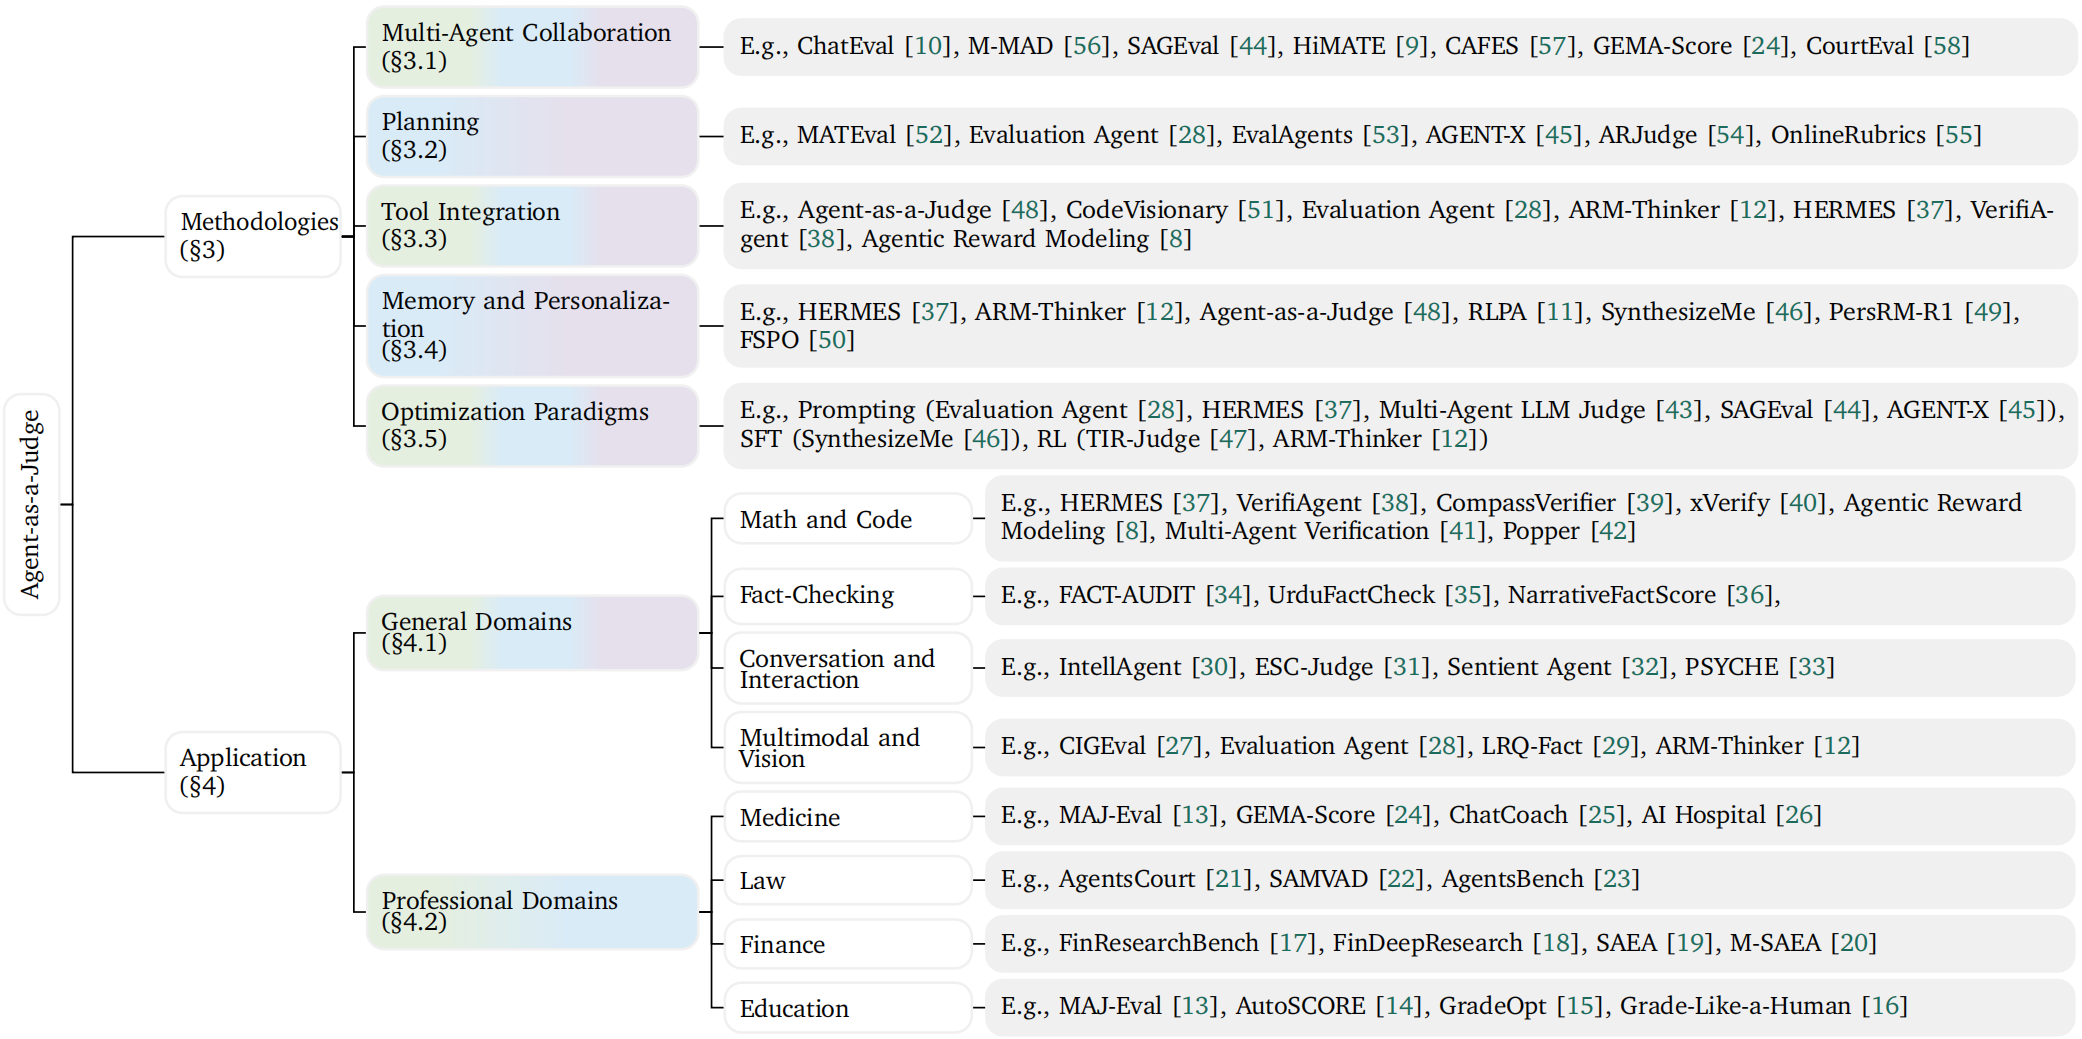
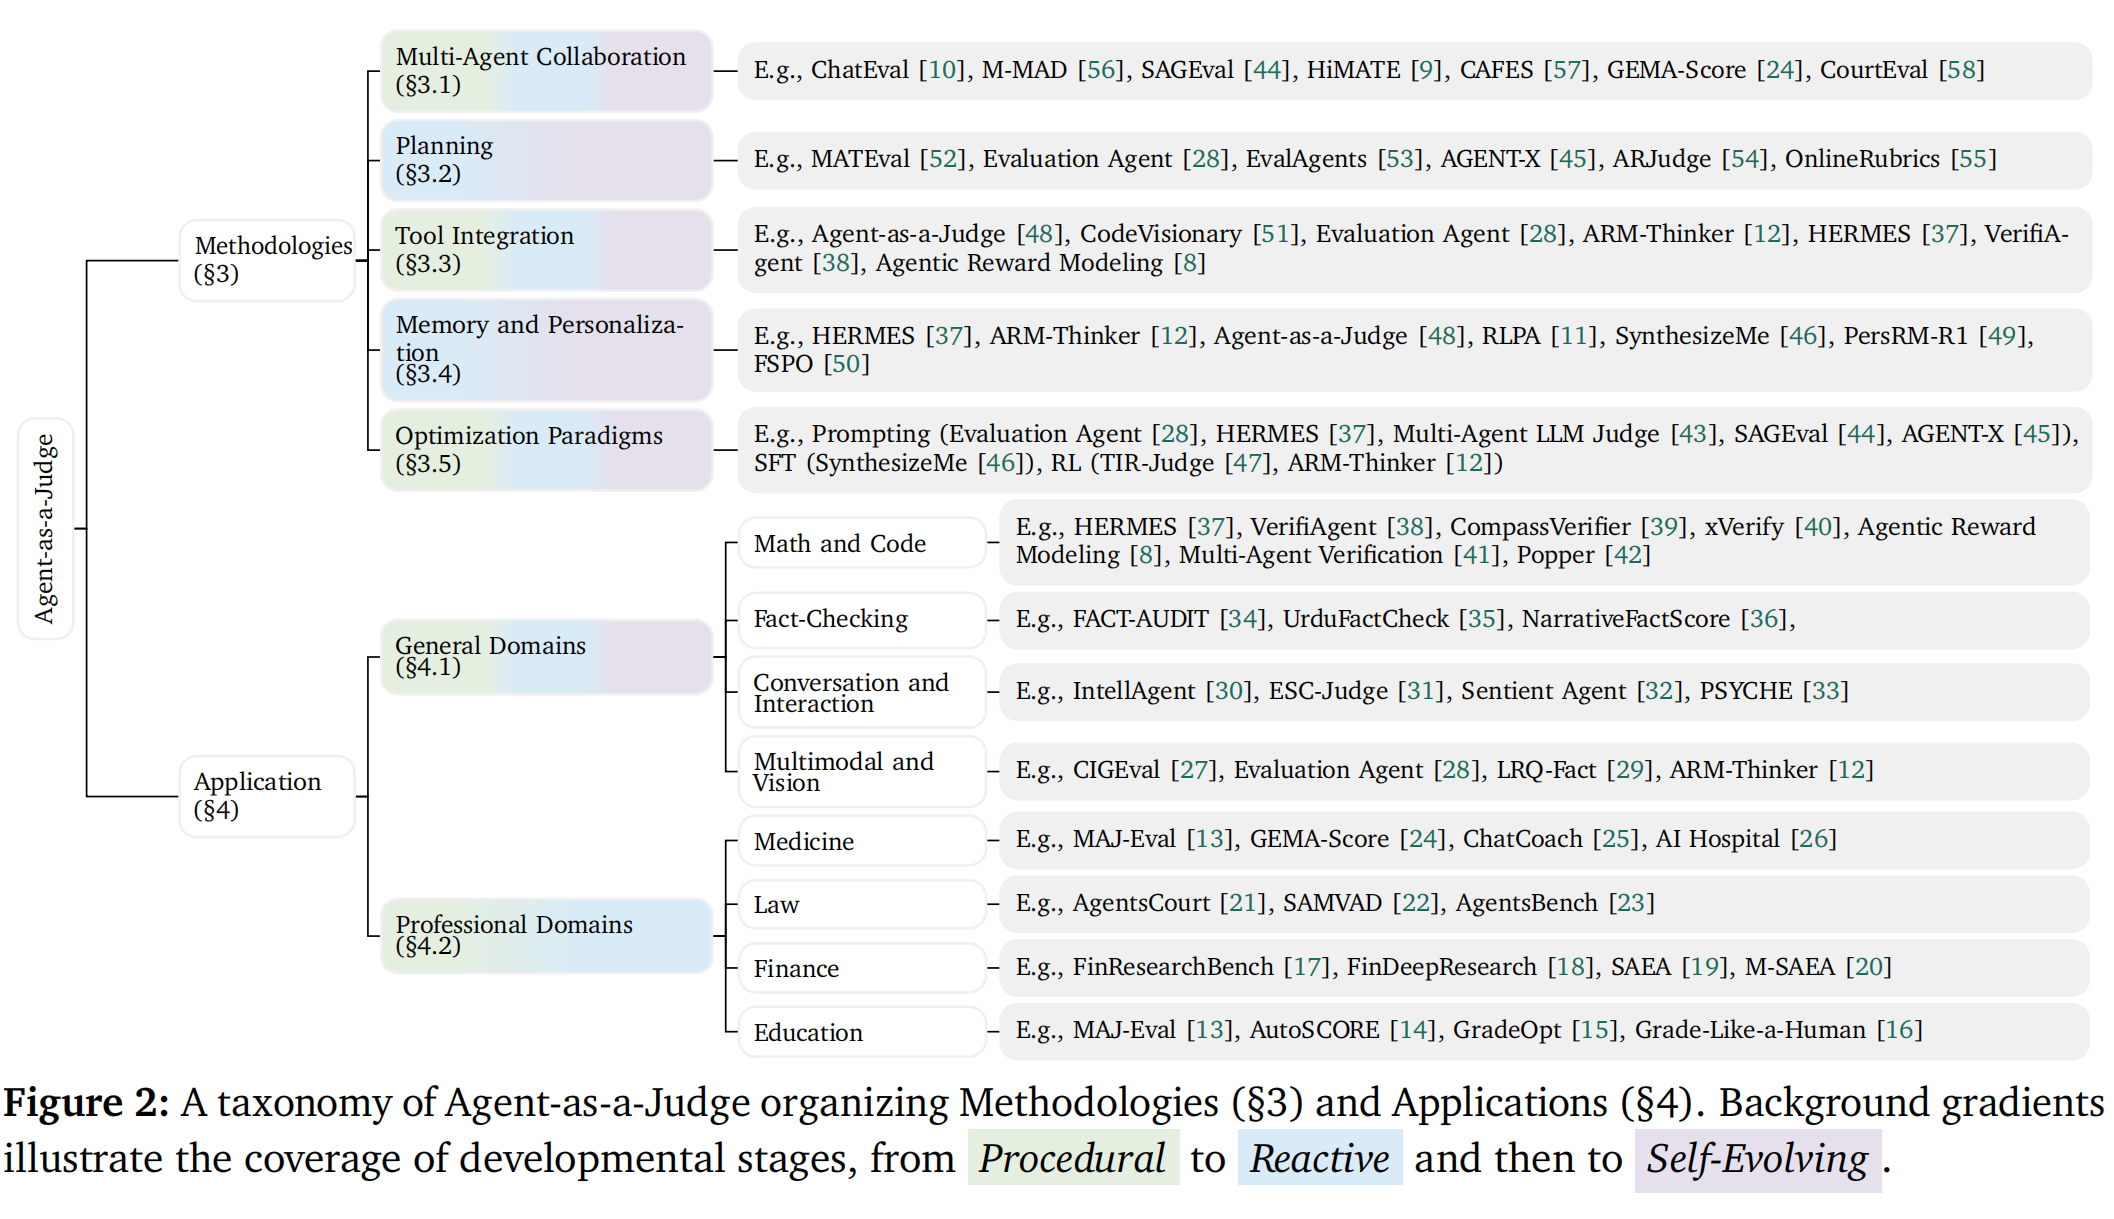
Update README.md: Correct title in introduction, add caption for taxonomy figure, re-origanize papers

diff --git a/README.md b/README.md
@@ -18,7 +18,7 @@
 
 
 
-Welcome to **Awesome Agent-as-a-Judge**! 👋 This repository provides a collection of papers for **AA Survey on Agent-as-a-Judge**, where LLM-based agents are used as judges to evaluate different types of outputs, including natural language generation, code generation, mathematical reasoning, and more.
+Welcome to **Awesome Agent-as-a-Judge**! 👋 This repository provides a collection of papers for **A Survey on Agent-as-a-Judge**, where LLM-based agents are used as judges to evaluate different types of outputs, including natural language generation, code generation, mathematical reasoning, and more.
 
 
 
@@ -29,6 +29,61 @@ Welcome to **Awesome Agent-as-a-Judge**! 👋 This repository provides a collect
 * <a href='#citation'> 📖 Citation </a>
 
 ## 📚 Papers <span id="papers">
+
+
+### Methodologies
+
+
+#### Multi-Agent Collaboration
+- [2024/01] ChatEval: Towards Better LLM-based Evaluators through Multi-Agent Debate | [paper](https://arxiv.org/abs/2308.07201) | Venue: ICLR 2024
+- [2024/12] M-MAD: Multidimensional Multi-Agent Debate for Advanced Machine Translation Evaluation | [paper](https://arxiv.org/abs/2412.20127) | Venue: ACL 2025
+- [2024/11] SAGEval: The frontiers of Satisfactory Agent based NLG Evaluation | [paper](https://arxiv.org/abs/2411.16077)
+- [2025/11] HiMATE: A Hierarchical Multi-Agent Framework for Machine Translation Evaluation | [paper](https://arxiv.org/abs/2505.16281) | Venue: EMNLP 2025
+- [2025/05] CAFES: A Collaborative Multi-Agent Framework for Multi-Granular Multimodal Essay Scoring | [paper](https://arxiv.org/abs/2505.13965)
+- [2025/03] GEMA-Score: Granular Explainable Multi-Agent Score for Radiology Report Evaluation | [paper](https://arxiv.org/abs/2503.05347)
+- [2025/07] CourtEval: A courtroom-based multi-agent evaluation framework. | [paper](https://aclanthology.org/2025.findings-acl.1327) | Venue: ACL 2025
+- [2025/02] Faithful, Unfaithful or Ambiguous? Multi-Agent Debate with Initial Stance for Summary Evaluation | [paper](https://arxiv.org/abs/2502.08514) | Venue: NAACL 2025
+- [2023/03] Large language models are diverse role-players for summarization evaluation | [paper](https://arxiv.org/abs/2303.15078) | Venue: NLPCC 2023
+
+#### Planning
+- [2024/05] MATEval: A Multi-Agent Discussion Framework for Advancing Open-Ended Text Evaluation | [paper](https://arxiv.org/abs/2403.19305) | Venue: DASFAA 2024
+- [2024/12] Evaluation Agent: Efficient and Promptable Evaluation Framework for Visual Generative Models | [paper](https://arxiv.org/abs/2412.09645) | Venue: ACL 2025
+- [2025/04] EvalAgent: Discovering Implicit Evaluation Criteria from the Web | [paper](https://arxiv.org/abs/2504.15219) | Venue: COLM 2025
+- [2025/05] AGENT-X: Adaptive Guideline-based Expert Network for Threshold-free AI-generated teXt detection | [paper](https://arxiv.org/abs/2505.15261)
+- [2025/11] Large Language Models as User-Agents for Evaluating Task-Oriented-Dialogue Systems . | [paper](https://arxiv.org/abs/2411.09972)
+- [2025/10] Online Rubrics Elicitation from Pairwise Comparisons | [paper](https://arxiv.org/abs/2510.07284)
+
+
+#### Tool Integration
+- [2024/10] Agent-as-a-Judge: Evaluate Agents with Agent | [paper](https://arxiv.org/abs/2410.10934) | Venue: ICML 2025
+- [2025/04] CodeVisionary: An Agent-based Framework for Evaluating Large Language Models in Code Generation | [paper](https://arxiv.org/abs/2504.13472) | Venue: ASE 2025
+- [2024/12] Evaluation Agent: Efficient and Promptable Evaluation Framework for Visual Generative Models | [paper](https://arxiv.org/abs/2412.09645) | Venue: ACL 2025
+- [2025/12] ARM-Thinker: Reinforcing Multimodal Generative Reward Models with Agentic Tool Use and Visual Reasoning | [paper](https://arxiv.org/abs/2512.05111)
+- [2025/11] HERMES: Towards Efficient and Verifiable Mathematical Reasoning in LLMs. | [paper](https://arxiv.org/abs/2511.1876)
+- [2025/04] VerifiAgent: a Unified Verification Agent in Language Model Reasoning | [paper](https://arxiv.org/abs/2504.00406) | Venue: EMNLP 2025
+- [2025/02] Agentic Reward Modeling: Integrating Human Preferences with Verifiable Correctness Signals. | [paper](https://arxiv.org/abs/2502.19328) | Venue: ACL 2025
+
+
+
+#### Memory and Personalization
+- [2025/11] HERMES: Towards Efficient and Verifiable Mathematical Reasoning in LLMs. | [paper](https://arxiv.org/abs/2511.1876)
+- [2025/12] ARM-Thinker: Reinforcing Multimodal Generative Reward Models with Agentic Tool Use and Visual Reasoning | [paper](https://arxiv.org/abs/2512.05111)
+- [2024/10] Agent-as-a-Judge: Evaluate Agents with Agent | [paper](https://arxiv.org/abs/2410.10934) | Venue: ICML 2025
+- [2025/05] Teaching Language Models to Evolve with Users: Dynamic Profile Modeling for Personalized Alignment | [paper](https://arxiv.org/abs/2505.15456) | Venue: NeurIPS 2025
+- [2025/06] SynthesizeMe! Inducing Persona-Guided Prompts for Personalized Reward Models in LLMs | [paper](https://arxiv.org/abs/2506.05598) | Venue: ACL 2025
+- [2025/08] PersRM-R1: Enhance Personalized Reward Modeling with Reinforcement Learning | [paper](https://arxiv.org/abs/2508.14076)
+- [2025/02] FSPO: Few-Shot Preference Optimization of Synthetic Preference Data in LLMs Elicits Effective Personalization to Real Users | [paper](https://arxiv.org/abs/2502.19312)
+
+
+#### Optimization Paradigms
+- [2024/12] Evaluation Agent: Efficient and Promptable Evaluation Framework for Visual Generative Models | [paper](https://arxiv.org/abs/2412.09645) | Venue: ACL 2025
+- [2025/11] HERMES: Towards Efficient and Verifiable Mathematical Reasoning in LLMs. | [paper](https://arxiv.org/abs/2511.1876)
+- [2025/04] Multi-Agent LLM Judge: automatic personalized LLM judge design for evaluating natural language generation applications | [paper](https://arxiv.org/abs/2504.02867)
+- [2024/11] SAGEval: The frontiers of Satisfactory Agent based NLG Evaluation | [paper](https://arxiv.org/abs/2411.16077)
+- [2025/05] AGENT-X: Adaptive Guideline-based Expert Network for Threshold-free AI-generated teXt detection | [paper](https://arxiv.org/abs/2505.15261)
+- [2025/06] SynthesizeMe! Inducing Persona-Guided Prompts for Personalized Reward Models in LLMs | [paper](https://arxiv.org/abs/2506.05598) | Venue: ACL 2025
+- [2025/10] Incentivizing Agentic Reasoning in LLM Judges via Tool-Integrated Reinforcement Learning | [paper](https://arxiv.org/abs/2510.23038)
+- [2025/12] ARM-Thinker: Reinforcing Multimodal Generative Reward Models with Agentic Tool Use and Visual Reasoning | [paper](https://arxiv.org/abs/2512.05111)
 
 
 ### Applications
@@ -88,72 +143,18 @@ Welcome to **Awesome Agent-as-a-Judge**! 👋 This repository provides a collect
 - [2025/02] Popper: Automated Hypothesis Validation with Agentic Sequential Falsifications | [paper](https://arxiv.org/abs/2502.09858) | Venue: ICML 2025
 - [2025/04] CodeVisionary: An Agent-based Framework for Evaluating Large Language Models in Code Generation | [paper](https://arxiv.org/abs/2504.13472) | Venue: ASE 2025
 
-### Methodologies
-
-#### Optimization Paradigms
-- [2024/12] Evaluation Agent: Efficient and Promptable Evaluation Framework for Visual Generative Models | [paper](https://arxiv.org/abs/2412.09645) | Venue: ACL 2025
-- [2025/11] HERMES: Towards Efficient and Verifiable Mathematical Reasoning in LLMs. | [paper](https://arxiv.org/abs/2511.1876)
-- [2025/04] Multi-Agent LLM Judge: automatic personalized LLM judge design for evaluating natural language generation applications | [paper](https://arxiv.org/abs/2504.02867)
-- [2024/11] SAGEval: The frontiers of Satisfactory Agent based NLG Evaluation | [paper](https://arxiv.org/abs/2411.16077)
-- [2025/05] AGENT-X: Adaptive Guideline-based Expert Network for Threshold-free AI-generated teXt detection | [paper](https://arxiv.org/abs/2505.15261)
-- [2025/06] SynthesizeMe! Inducing Persona-Guided Prompts for Personalized Reward Models in LLMs | [paper](https://arxiv.org/abs/2506.05598) | Venue: ACL 2025
-- [2025/10] Incentivizing Agentic Reasoning in LLM Judges via Tool-Integrated Reinforcement Learning | [paper](https://arxiv.org/abs/2510.23038)
-- [2025/12] ARM-Thinker: Reinforcing Multimodal Generative Reward Models with Agentic Tool Use and Visual Reasoning | [paper](https://arxiv.org/abs/2512.05111)
-
-#### Memory and Personalization
-- [2025/11] HERMES: Towards Efficient and Verifiable Mathematical Reasoning in LLMs. | [paper](https://arxiv.org/abs/2511.1876)
-- [2025/12] ARM-Thinker: Reinforcing Multimodal Generative Reward Models with Agentic Tool Use and Visual Reasoning | [paper](https://arxiv.org/abs/2512.05111)
-- [2024/10] Agent-as-a-Judge: Evaluate Agents with Agent | [paper](https://arxiv.org/abs/2410.10934) | Venue: ICML 2025
-- [2025/05] Teaching Language Models to Evolve with Users: Dynamic Profile Modeling for Personalized Alignment | [paper](https://arxiv.org/abs/2505.15456) | Venue: NeurIPS 2025
-- [2025/06] SynthesizeMe! Inducing Persona-Guided Prompts for Personalized Reward Models in LLMs | [paper](https://arxiv.org/abs/2506.05598) | Venue: ACL 2025
-- [2025/08] PersRM-R1: Enhance Personalized Reward Modeling with Reinforcement Learning | [paper](https://arxiv.org/abs/2508.14076)
-- [2025/02] FSPO: Few-Shot Preference Optimization of Synthetic Preference Data in LLMs Elicits Effective Personalization to Real Users | [paper](https://arxiv.org/abs/2502.19312)
-
-#### Tool Integration
-- [2024/10] Agent-as-a-Judge: Evaluate Agents with Agent | [paper](https://arxiv.org/abs/2410.10934) | Venue: ICML 2025
-- [2025/04] CodeVisionary: An Agent-based Framework for Evaluating Large Language Models in Code Generation | [paper](https://arxiv.org/abs/2504.13472) | Venue: ASE 2025
-- [2024/12] Evaluation Agent: Efficient and Promptable Evaluation Framework for Visual Generative Models | [paper](https://arxiv.org/abs/2412.09645) | Venue: ACL 2025
-- [2025/12] ARM-Thinker: Reinforcing Multimodal Generative Reward Models with Agentic Tool Use and Visual Reasoning | [paper](https://arxiv.org/abs/2512.05111)
-- [2025/11] HERMES: Towards Efficient and Verifiable Mathematical Reasoning in LLMs. | [paper](https://arxiv.org/abs/2511.1876)
-- [2025/04] VerifiAgent: a Unified Verification Agent in Language Model Reasoning | [paper](https://arxiv.org/abs/2504.00406) | Venue: EMNLP 2025
-- [2025/02] Agentic Reward Modeling: Integrating Human Preferences with Verifiable Correctness Signals. | [paper](https://arxiv.org/abs/2502.19328) | Venue: ACL 2025
-
-#### Planning
-- [2024/05] MATEval: A Multi-Agent Discussion Framework for Advancing Open-Ended Text Evaluation | [paper](https://arxiv.org/abs/2403.19305) | Venue: DASFAA 2024
-- [2024/12] Evaluation Agent: Efficient and Promptable Evaluation Framework for Visual Generative Models | [paper](https://arxiv.org/abs/2412.09645) | Venue: ACL 2025
-- [2025/04] EvalAgent: Discovering Implicit Evaluation Criteria from the Web | [paper](https://arxiv.org/abs/2504.15219) | Venue: COLM 2025
-- [2025/05] AGENT-X: Adaptive Guideline-based Expert Network for Threshold-free AI-generated teXt detection | [paper](https://arxiv.org/abs/2505.15261)
-- [2025/11] Large Language Models as User-Agents for Evaluating Task-Oriented-Dialogue Systems . | [paper](https://arxiv.org/abs/2411.09972)
-- [2025/10] Online Rubrics Elicitation from Pairwise Comparisons | [paper](https://arxiv.org/abs/2510.07284)
-
-#### Multi-Agent Collaboration
-- [2024/01] ChatEval: Towards Better LLM-based Evaluators through Multi-Agent Debate | [paper](https://arxiv.org/abs/2308.07201) | Venue: ICLR 2024
-- [2024/12] M-MAD: Multidimensional Multi-Agent Debate for Advanced Machine Translation Evaluation | [paper](https://arxiv.org/abs/2412.20127) | Venue: ACL 2025
-- [2024/11] SAGEval: The frontiers of Satisfactory Agent based NLG Evaluation | [paper](https://arxiv.org/abs/2411.16077)
-- [2025/11] HiMATE: A Hierarchical Multi-Agent Framework for Machine Translation Evaluation | [paper](https://arxiv.org/abs/2505.16281) | Venue: EMNLP 2025
-- [2025/05] CAFES: A Collaborative Multi-Agent Framework for Multi-Granular Multimodal Essay Scoring | [paper](https://arxiv.org/abs/2505.13965)
-- [2025/03] GEMA-Score: Granular Explainable Multi-Agent Score for Radiology Report Evaluation | [paper](https://arxiv.org/abs/2503.05347)
-- [2025/07] CourtEval: A courtroom-based multi-agent evaluation framework. | [paper](https://aclanthology.org/2025.findings-acl.1327) | Venue: ACL 2025
-- [2025/02] Faithful, Unfaithful or Ambiguous? Multi-Agent Debate with Initial Stance for Summary Evaluation | [paper](https://arxiv.org/abs/2502.08514) | Venue: NAACL 2025
-- [2023/03] Large language models are diverse role-players for summarization evaluation | [paper](https://arxiv.org/abs/2303.15078) | Venue: NLPCC 2023
-
 
 ## 🪴 Acknowledge <span id="community"></span>
-<img src="assets/LOGO.png" alt="Agent-as-a-Judge Taxonomy" width="100"/>
+<!-- <img src="assets/LOGO.png" alt="Agent-as-a-Judge Taxonomy" width="100"/> -->
 
 
-We would like to thank the contributors, open-source projects, and research communities whose work made this collection possible. This repository builds upon the excellent research in agent-based evaluation methods. We also acknowledge helpful discussions and support from **Modality Dance Lab** and the open-source community.
+We would like to thank the contributors, open-source projects, and research communities whose work made this collection possible. This repository builds upon the excellent research in agent-based evaluation methods. We also acknowledge helpful discussions and support from **Modality Dance Group** and the open-source community.
 
 
 
 <div align="center">
 
-<a href="https://github.com/ModalityDance/Awesome-Agent-as-a-Judge/contributors">
-  <img src="https://contrib.rocks/image?repo=ModalityDance/Awesome-Agent-as-a-Judge" />
-</a>
 
-</div>
-<!-- Star history chart -->
 <a href="https://star-history.com/ModalityDance/Awesome-Agent-as-a-Judge&Date">
   <img src="https://api.star-history.com/svg?repos=ModalityDance/Awesome-Agent-as-a-Judge&type=Date" alt="Star History Chart" width="500"/>
 </a>
@@ -168,11 +169,14 @@ We would like to thank the contributors, open-source projects, and research comm
 
 
 ```bibtex
-@article{yourproject2025,
-  title        = {A Survey on Agent-as-a-Judge},
-  author       = {Your Name and Collaborator Name and Others},
-  journal      = {arXiv preprint arXiv:{xxxx.xxxxx}},
-  year         = {2025}
+@misc{you2026agentasajudge,
+      title={Agent-as-a-Judge}, 
+      author={Runyang You and Hongru Cai and Caiqi Zhang and Qiancheng Xu and Meng Liu and Tiezheng Yu and Yongqi Li and Wenjie Li},
+      year={2026},
+      eprint={2601.05111},
+      archivePrefix={arXiv},
+      primaryClass={cs.CL},
+      url={https://arxiv.org/abs/2601.05111}, 
 }
 ```
 
